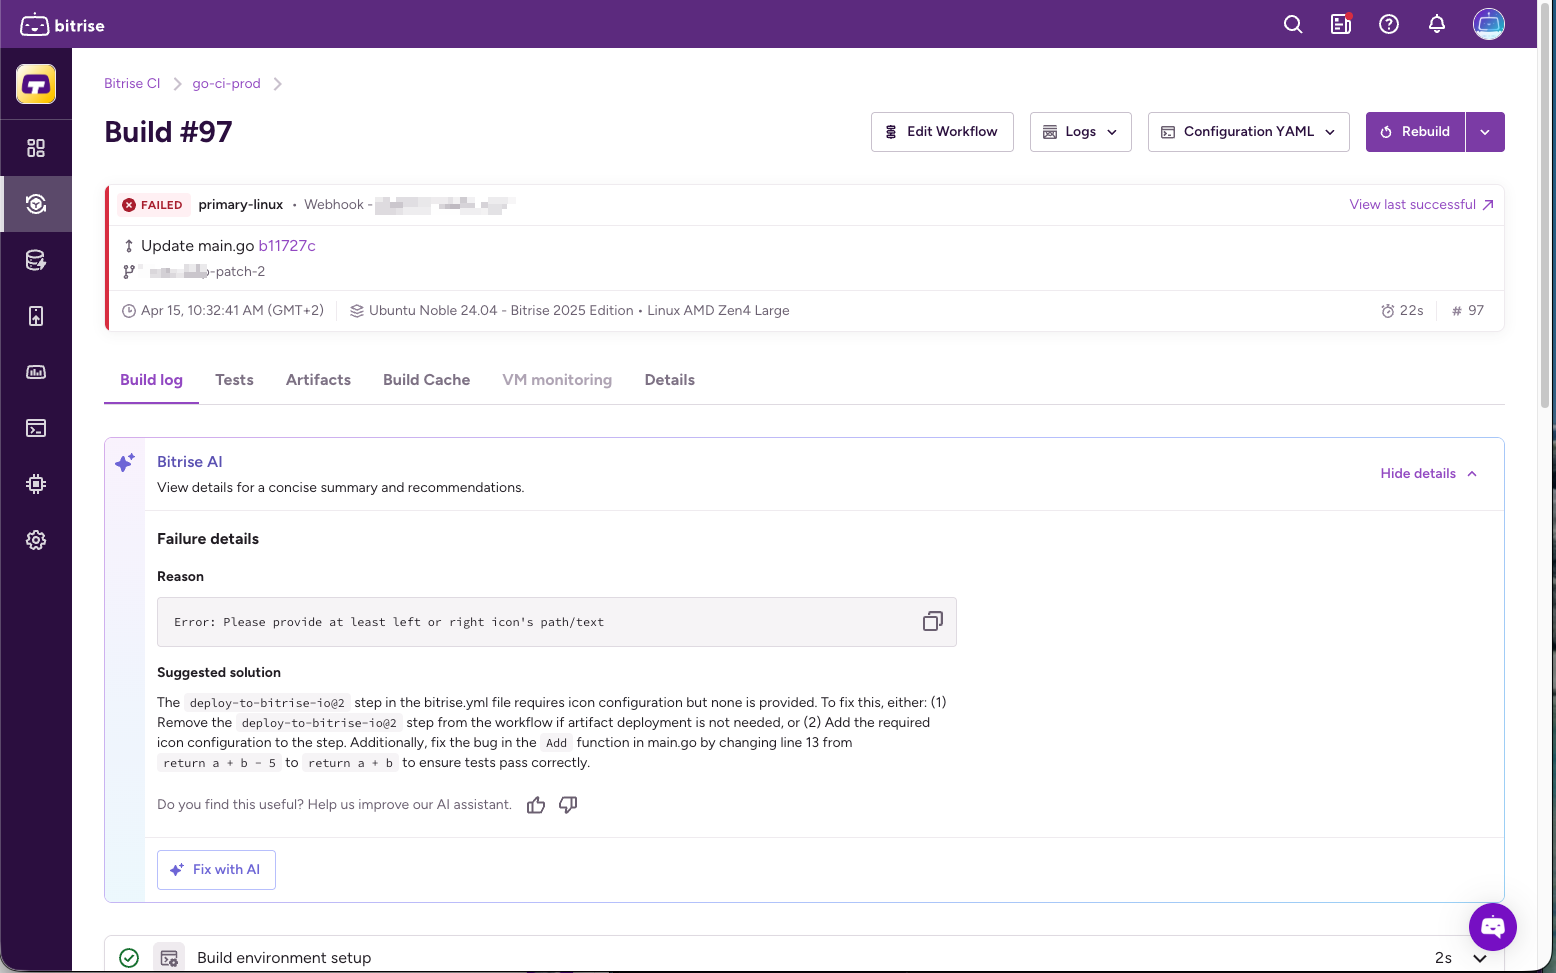
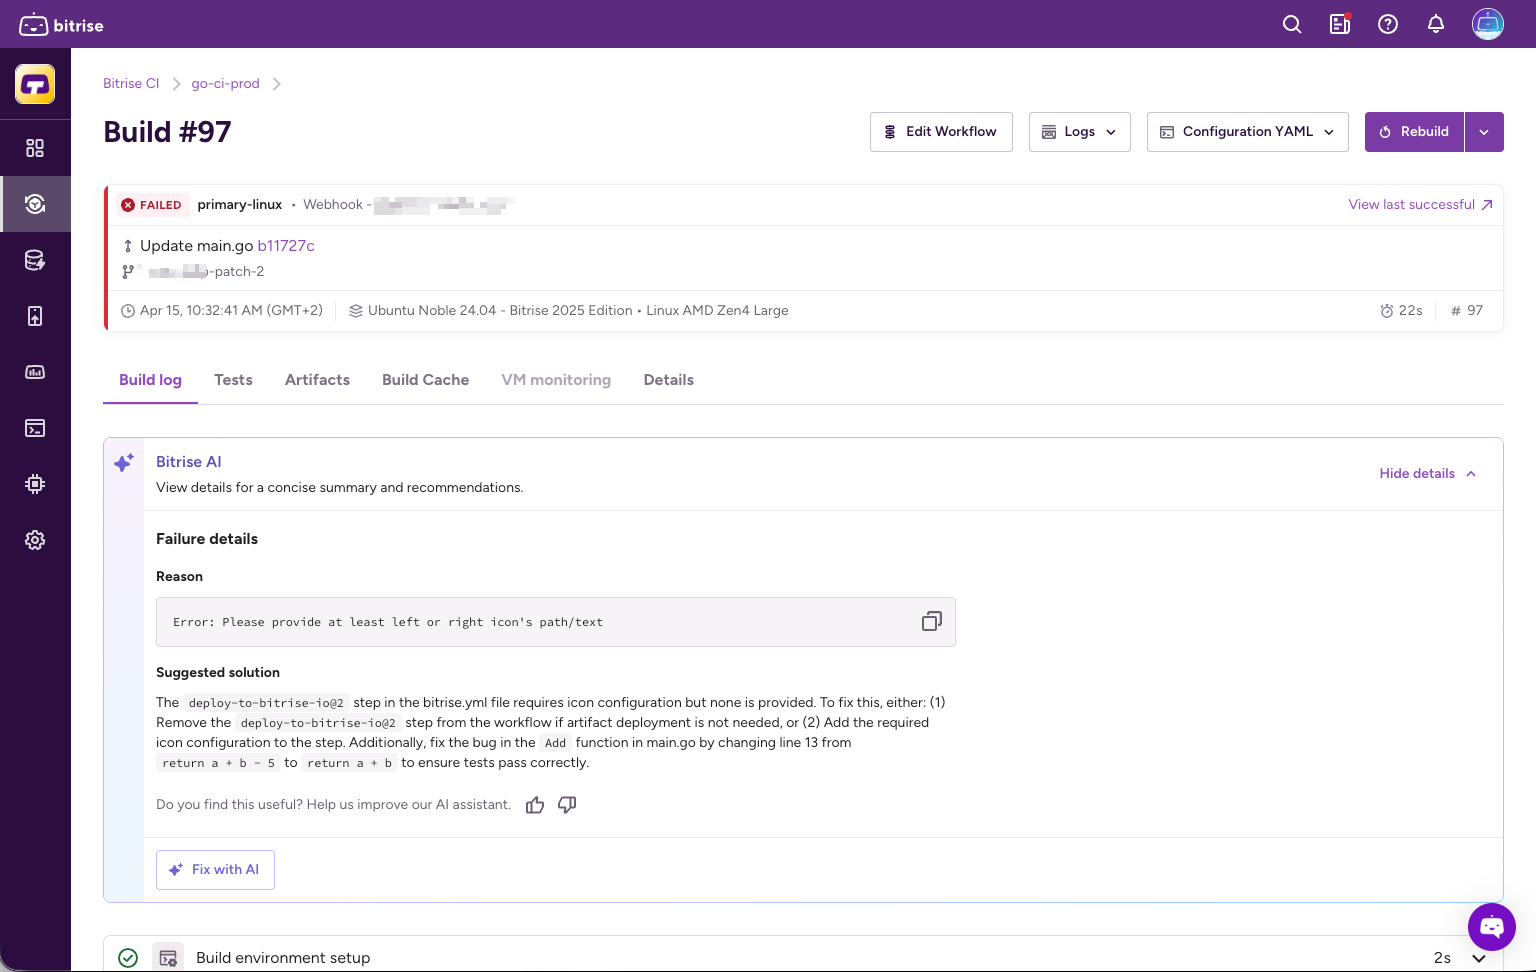
fix: resolve remaining S3 findings from run-and-analyze-builds validation
Fixes the remaining S3 findings (tracked in TW-1773) from the docs
validation of docs/bitrise-ci/run-and-analyze-builds:

- bitrise-checks-on-github.mdx / reporting-build-problems-in-pr-comments.md:
  corrected the stale "Integrations -> Git provider" navigation path to
  "Repository -> Build reporting"; refreshed the PR-comments dialog
  screenshots and info-block copy.
- build-logs.mdx: replaced three screenshots showing pre-redesign build
  page chrome.
- rebuilding-a-failed-build.mdx: corrected the partial pipeline rerun
  window (7 -> 30 days).
- remote-access.mdx: corrected "Screenshare" -> "Screen share" naming,
  a stale toggle label, wrong VM path casing, and the Address->URL field
  name; added tab-selection steps and refreshed all screenshots for the
  current VSCode/SSH/Screen share tabbed UI; added a Configuration YAML
  tab for extending remote access.
- legacy-project-based-triggers.mdx: corrected the stale
  dropdown/"Inactive" description to the current Active checkbox, and
  added a missing "find the Legacy triggers section" step with screenshot.
- uploading-files-for-your-builds.mdx: corrected "App settings" ->
  "Project settings" and the file-count limit (5 -> 100); refreshed the
  Add file dialog screenshot.
- approving-pull-request-builds.mdx: removed the self-contradicting
  "disabled by default" sentence, corrected stale button labels
  ("Review" -> "Review PR", "Manual build approval" -> "Manual
  approval"), and refreshed screenshots.
[…]

diff --git a/docs/bitrise-ci/run-and-analyze-builds/build-data-and-troubleshooting/reporting-build-problems-in-pr-comments.md b/docs/bitrise-ci/run-and-analyze-builds/build-data-and-troubleshooting/reporting-build-problems-in-pr-comments.md
@@ -18,19 +18,18 @@ Configure PR comments with just a few clicks:
 
 1. Open your project on Bitrise with a user who has either the **Admin** role or the **Owner** role on the project.
 1. On the main page of the project, click on the **Project settings** button.
-1. Click **Integrations** on the left.
-1. On the **Git provider** tab, scroll down to **Build reporting** and enable the toggle for **PR comments**.
-1. If you wish to further edit the settings, click **Change settings**.
+1. Click **Repository** on the left.
+1. Scroll down to **Build reporting** and enable the toggle for **PR comments**.
 
-   ![project_settings_debugginginfoinPRs.png](/img/_paligo/uuid-5be9939f-1e31-2a9d-6c18-016f86734943.png)
-1. In the **Configure PR comments**window, all information blocks are selected by default, but you can uncheck any that you do not want to include in PR comments. The information blocks are the following:
+   ![Build reporting section with the PR Comments toggle](/img/run-and-analyze-builds/2026-07-14-build-reporting-pr-comments-toggle.png)
+1. In the **Configure PR comments** window, all information blocks are unchecked by default. Select any that you want to include in PR comments. The information blocks are the following:
 
-   - **Build summary**: Provides an overview of your build.
-   - **Step failures**: Provides details on which build Steps failed and why.
-   - **Test failures**: Provides information on failed tests.
-   - **Flaky tests**: Provides insights into tests that are inconsistent.
+   - **Build summary**: Build overview at the top of the comment. With AI on, also shows why the build failed and what to check first.
+   - **Step failures**: Shows failed Steps and error details. Hidden when all Steps succeed.
+   - **Test failures**: Shows failed tests and error details. Hidden when all tests succeed.
+   - **Flaky tests**: Shows flaky tests and rerun information. Hidden when there are no flaky tests.
 
-     ![configurePRcomments_debugginginfoinPRcomments.png](/img/_paligo/uuid-5f7b1066-7b97-56e9-54c2-cd2094b7e2d5.png)
+     ![Configure PR comments dialog with information blocks and Comment mode options](/img/run-and-analyze-builds/2026-07-14-configure-pr-comments-dialog.png)
 1. Under **Comment mode**, you can choose a comment mode to receive either a single comment or multiple comments.
 
    - **Single comment**: Each build on the PR replaces any existing comments from a previous build, so the PR displays only the comment from the most recent build.
@@ -41,6 +40,7 @@ Configure PR comments with just a few clicks:
      One PR build means one comment. However, multiple different Workflows on the same PR means multiple comments regardless of the **Comment mode** you choose. If the same Workflow is re-triggered, it adds new comments or updates the existing ones on the PR based on the chosen **Comment mode**.
 
      :::
+1. When ready, click **Save changes**.
 
 ## Receiving comments only for failed builds
 